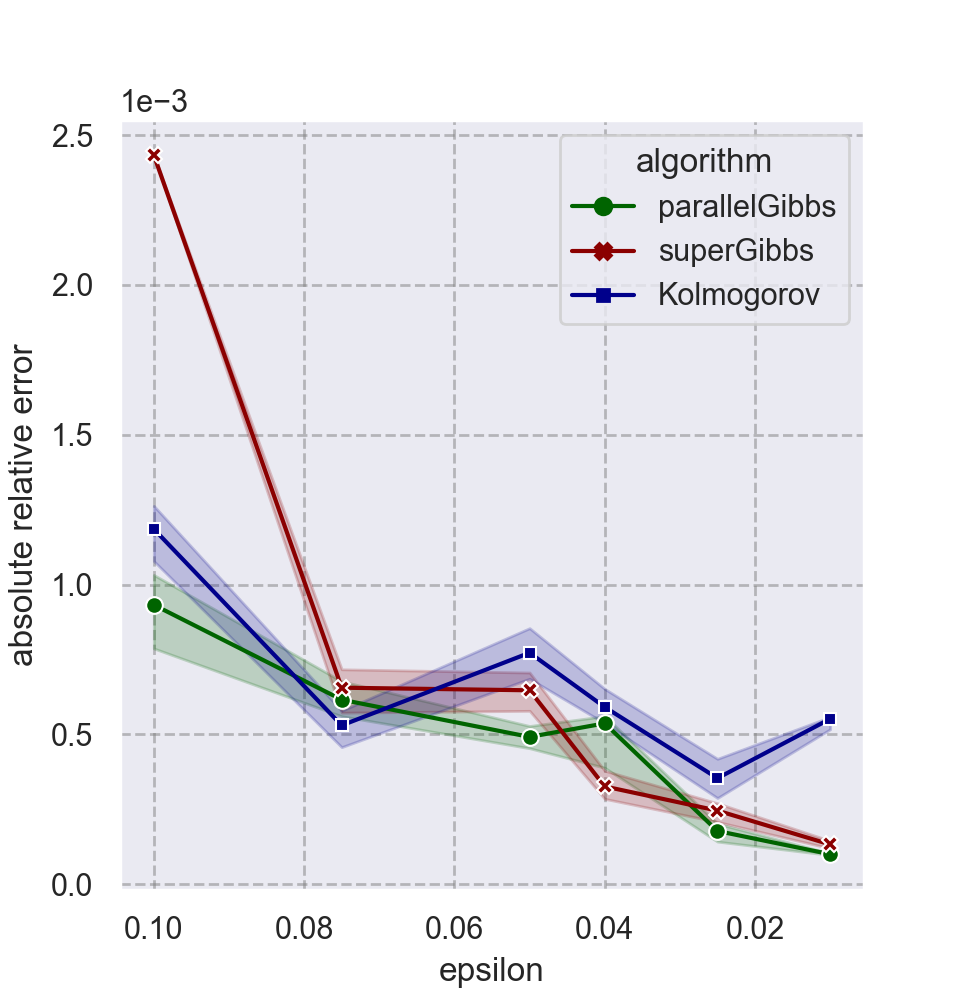
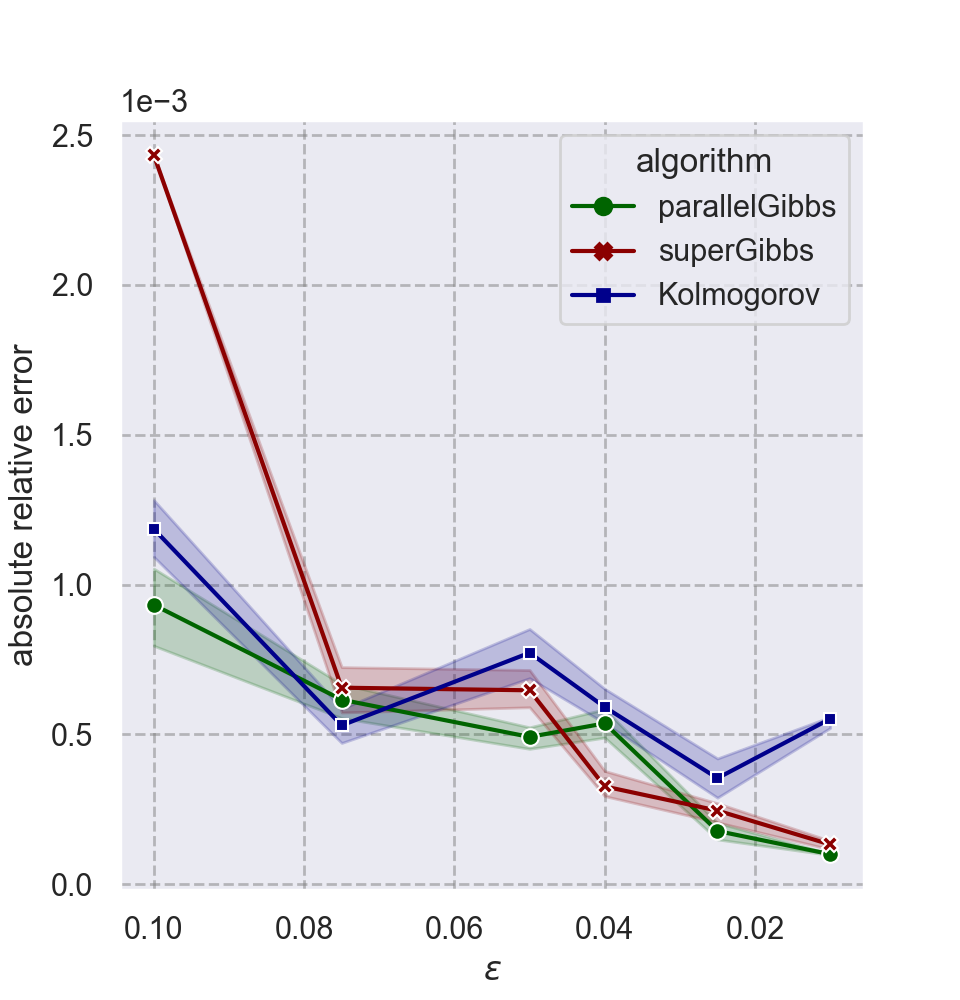
add readme

diff --git a/src/log_visualize.py b/src/log_visualize.py
@@ -18,9 +18,10 @@ def lineplot_complexity_vs_eps_Voting():
     df_sub = df[(df["chain"]==chain)&(df["beta_max"]==bmax)&(df["true_Q"]>1.37974)&(df["true_Q"]<1.37975)]
     df_sub = df_sub[(df_sub["algorithm"]=="Kolmogorov") | (df_sub["algorithm"]=="parallelGibbs")| (df_sub["algorithm"]=="superGibbs")]
     df_sub["1/$\epsilon$"] = 1/df_sub["epsilon"]
+    df_sub["complexity"] = df_sub["sample_complexity"]
     plt.figure(figsize=(6,5))
     sns.set_theme(style="darkgrid")
-    g = sns.lineplot(x="1/$\epsilon$", y="sample_complexity", hue="algorithm", style = "algorithm", \
+    g = sns.lineplot(x="1/$\epsilon$", y="complexity", hue="algorithm", style = "algorithm", \
         ci=95 ,data=df_sub, markers=True, markersize = 8, dashes=False, linewidth=2, palette=palette) # style = "different_weights", 
     # g.set(ylim=(4, 11))
     g.set_yscale('log')
@@ -35,22 +36,23 @@ def lineplot_complexity_vs_eps_Voting_zoom():
     bmax = 0.1
     chain = "logical"
     weights = 7
-    # df_sub = df[(df["chain"]==chain)&(df["beta_max"]==bmax)&(df["true_Q"]>1.38067)&(df["true_Q"]<1.38068)] # 1.37974, 1.38067, 
-    df_sub = df[(df["chain"]==chain)&(df["beta_max"]==bmax)&(df["true_Q"]>1.37974)&(df["true_Q"]<1.37975)]
+    df_sub = df[(df["chain"]==chain)&(df["beta_max"]==bmax)&(df["true_Q"]>1.38067)&(df["true_Q"]<1.38068)] # 1.37974, 1.38067, 
+    # df_sub = df[(df["chain"]==chain)&(df["beta_max"]==bmax)&(df["true_Q"]>1.37974)&(df["true_Q"]<1.37975)]
     df_sub = df_sub[df_sub["algorithm"]!="Kolmogorov"]
     df_sub["1/$\epsilon$"] = 1/df_sub["epsilon"]
     df_sub["algorithm"].replace({"parallelGibbs (McMcPro)": "parallelGibbs (T$\leftarrow 1$)", "superGibbs (McMcPro)": "superGibbs (T$\leftarrow 1$)"}, inplace=True)
+    df_sub["complexity"] = df_sub["sample_complexity"]
     plt.figure(figsize=(10.5,6))
     
     sns.set_theme(style="darkgrid")
     plt.grid(True,which="both",ls="--",c='gray', alpha=0.5) 
 
-    g = sns.lineplot(x="1/$\epsilon$", y="sample_complexity", hue="algorithm", style = "algorithm", \
+    g = sns.lineplot(x="1/$\epsilon$", y="complexity", hue="algorithm", style = "algorithm", \
         ci=0 ,data=df_sub, markers=True, markersize = 7, dashes=False, linewidth=1.5, palette=palette) 
     # g.set(ylim=(4, 11))
     plt.legend(loc='lower right')
     ax2 = plt.axes([0.14, 0.45, .4, .49], facecolor='gainsboro')
-    sns.lineplot(x="1/$\epsilon$", y="sample_complexity", hue="algorithm", style = "algorithm", \
+    sns.lineplot(x="1/$\epsilon$", y="complexity", hue="algorithm", style = "algorithm", \
         ci=0 ,data=df_sub, markers=True, markersize = 7, dashes=False, linewidth=1.5, palette=palette, ax=ax2, legend=None) 
     ax2.set_yscale('log')
     ax2.set_xscale('log')
@@ -83,7 +85,7 @@ def lineplot_complexity_vs_eps_Voting_zoom():
         )
     )
     plt.show()
-    g.figure.savefig("../figures/complexity_vs_eps_Voting1.png", dpi=200)
+    g.figure.savefig("../figures/complexity_vs_eps_Voting2.png", dpi=200)
 
 
 def scatterplot_complexity_vs_Z_Voting():
@@ -95,9 +97,10 @@ def scatterplot_complexity_vs_Z_Voting():
     nn = 5
     df_sub = df_sub[(df_sub["n"]==nn)]
     df_sub["1/Z"] = 1/(2**nn/df_sub["true_Q"])
+    df_sub["complexity"] = df_sub["sample_complexity"]
     plt.figure(figsize=(4.8,5))
     sns.set_theme(style="darkgrid")
-    g = sns.scatterplot(x="1/Z", y="sample_complexity",  hue = "algorithm", style = "algorithm", ci=95 ,data=df_sub, palette=palette) # style = "different_weights", 
+    g = sns.scatterplot(x="1/Z", y="complexity",  hue = "algorithm", style = "algorithm", ci=95 ,data=df_sub, palette=palette) # style = "different_weights", 
     g.set(xlim=(0.04, 0.05))
     g.set(ylim=(10**5, 10**8))
     g.set_yscale('log')
@@ -115,9 +118,10 @@ def lineplot_complexity_vs_eps_Ising(n=6):
     df_sub = df[(df["chain"]==chain)&(df["n"]==n)]
     # df_sub["log10 (sample complexity)"] = df_sub["sample_complexity"]
     df_sub["1/$\epsilon$"] = 1/df_sub["epsilon"]
+    df_sub["complexity"] = df_sub["sample_complexity"]
     plt.figure(figsize=(5.4, 6))
     sns.set_theme(style="darkgrid")
-    g = sns.lineplot(x="1/$\epsilon$", y="sample_complexity", hue="algorithm", style = "algorithm", \
+    g = sns.lineplot(x="1/$\epsilon$", y="complexity", hue="algorithm", style = "algorithm", \
         ci=95 ,data=df_sub, markers=True, markersize = 8, dashes=False, linewidth=2, palette=palette) # style = "different_weights", 
     # g.set(ylim=(10**5, 10**12))
     g.set_yscale('log')
@@ -137,11 +141,10 @@ def lineplot_error_vs_eps_Voting():
     df_sub = df_sub[(df_sub["algorithm"]=="Kolmogorov") | (df_sub["algorithm"]=="parallelGibbs")| (df_sub["algorithm"]=="superGibbs")]
     df_sub = df_sub[df_sub["epsilon"].isin(epsilons)]
     df_sub["absolute relative error"] = np.abs(df_sub["error"])
-    df_sub["log(1/epsilon)"] = np.log(1/df_sub["epsilon"])
-    print(df_sub)
+    df_sub["$\epsilon$"] = df_sub["epsilon"]
     plt.figure(figsize=(4.8,5))
     sns.set_theme(style="darkgrid")
-    g = sns.lineplot(x="epsilon", y="absolute relative error", hue="algorithm", style = "algorithm", \
+    g = sns.lineplot(x="$\epsilon$", y="absolute relative error", hue="algorithm", style = "algorithm", \
         ci=35 ,data=df_sub, markers=True, dashes=False, palette=palette) # style = "different_weights", 
     # g.set(ylim=(5, 12))
     g.ticklabel_format(axis="y", style="sci", scilimits=(0,0))
@@ -152,14 +155,14 @@ def lineplot_error_vs_eps_Voting():
 
 if __name__ == "__main__":
     
-    lineplot_complexity_vs_eps_Voting()
+    # lineplot_complexity_vs_eps_Voting()
     lineplot_complexity_vs_eps_Voting_zoom()
-    scatterplot_complexity_vs_Z_Voting()
-    lineplot_complexity_vs_eps_Ising(n=2)
-    lineplot_complexity_vs_eps_Ising(n=3)
-    lineplot_complexity_vs_eps_Ising(n=4)
-    lineplot_complexity_vs_eps_Ising(n=6)
-    lineplot_error_vs_eps_Voting()
+    # scatterplot_complexity_vs_Z_Voting()
+    # lineplot_complexity_vs_eps_Ising(n=2)
+    # lineplot_complexity_vs_eps_Ising(n=3)
+    # lineplot_complexity_vs_eps_Ising(n=4)
+    # lineplot_complexity_vs_eps_Ising(n=6)
+    # lineplot_error_vs_eps_Voting()
 
    
 

diff --git a/README.md b/README.md
@@ -1,7 +1,7 @@
 # Fast Doubly-Adaptive MCMC to Estimate the GibbsPartition Function with Weak Mixing Time Bounds
 
 ## Introduction
-We present a novel method for reducing the sample complexity of rigorously estimating the partition functionsof Gibbs (or Boltzmann) distributions, which arise ubiquitously in probabilistic graphical models. 
+We present a novel method for reducing the computational complexity of rigorously estimating the partition functions of Gibbs (or Boltzmann) distributions, which arise ubiquitously in probabilistic graphical models. A major obstacle to applying the Gibbs distribution in practice is the need to estimate their partition function (normalizing constant).  The state of the art in addressing this problem is multi-stage algorithms which consist of a cooling schedule and a mean estimator in each step of the schedule.  While the cooling schedule in these algorithms is adaptive, the mean estimate computations use MCMC as a black-box to draw approximately-independent samples. Here we develop a doubly adaptive approach, combining the adaptive cooling schedule with an adaptive MCMC mean estimator, whose number of Markov chain steps adapts dynamically to the underlying chain. Through rigorous theoretical analysis, we prove that our method outperforms the state of the art algorithms in several factors: (1) The computational complexity of our method is smaller; (2) Our method is less sensitive to loose bounds on mixing times, an inherent components in these algorithms; and (3) The improvement obtained by our method is particularly significant in the most challenging regime of high precision estimates. We demonstrate the advantage of our method in experiments run on classic factor graphs, such as voting models and Ising models. 
 
 ## Reproduce the experiments
 
